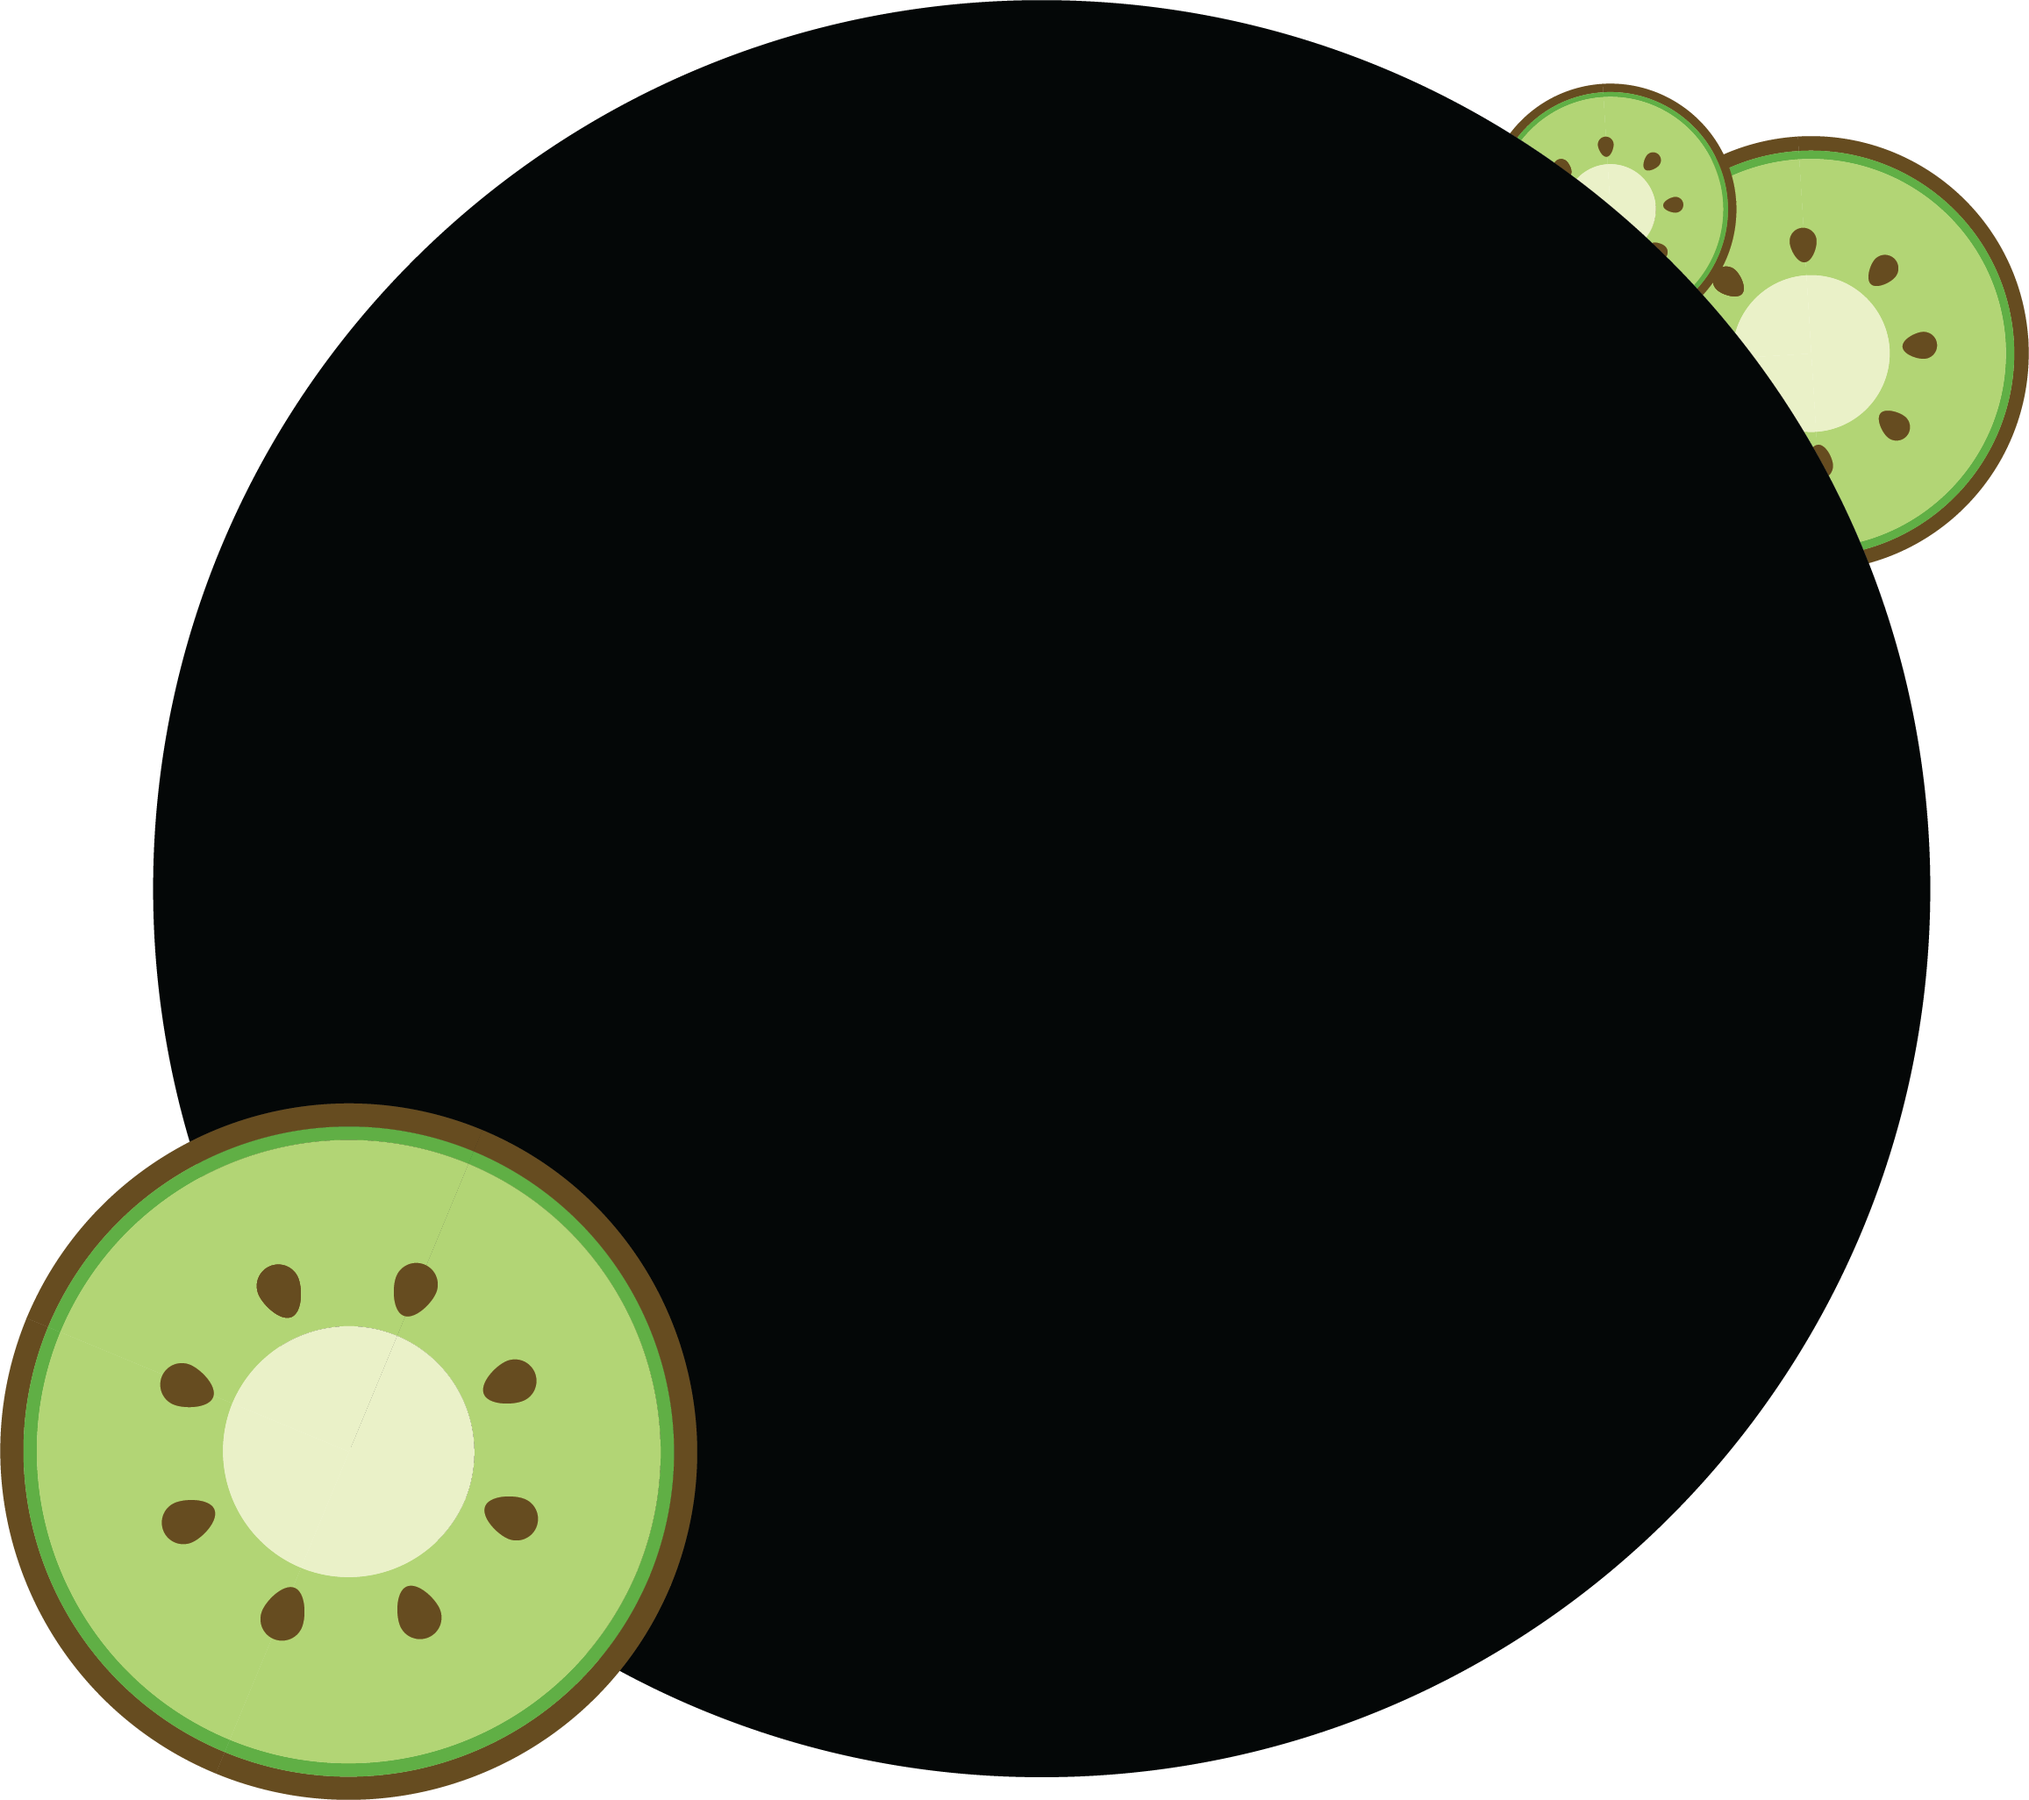
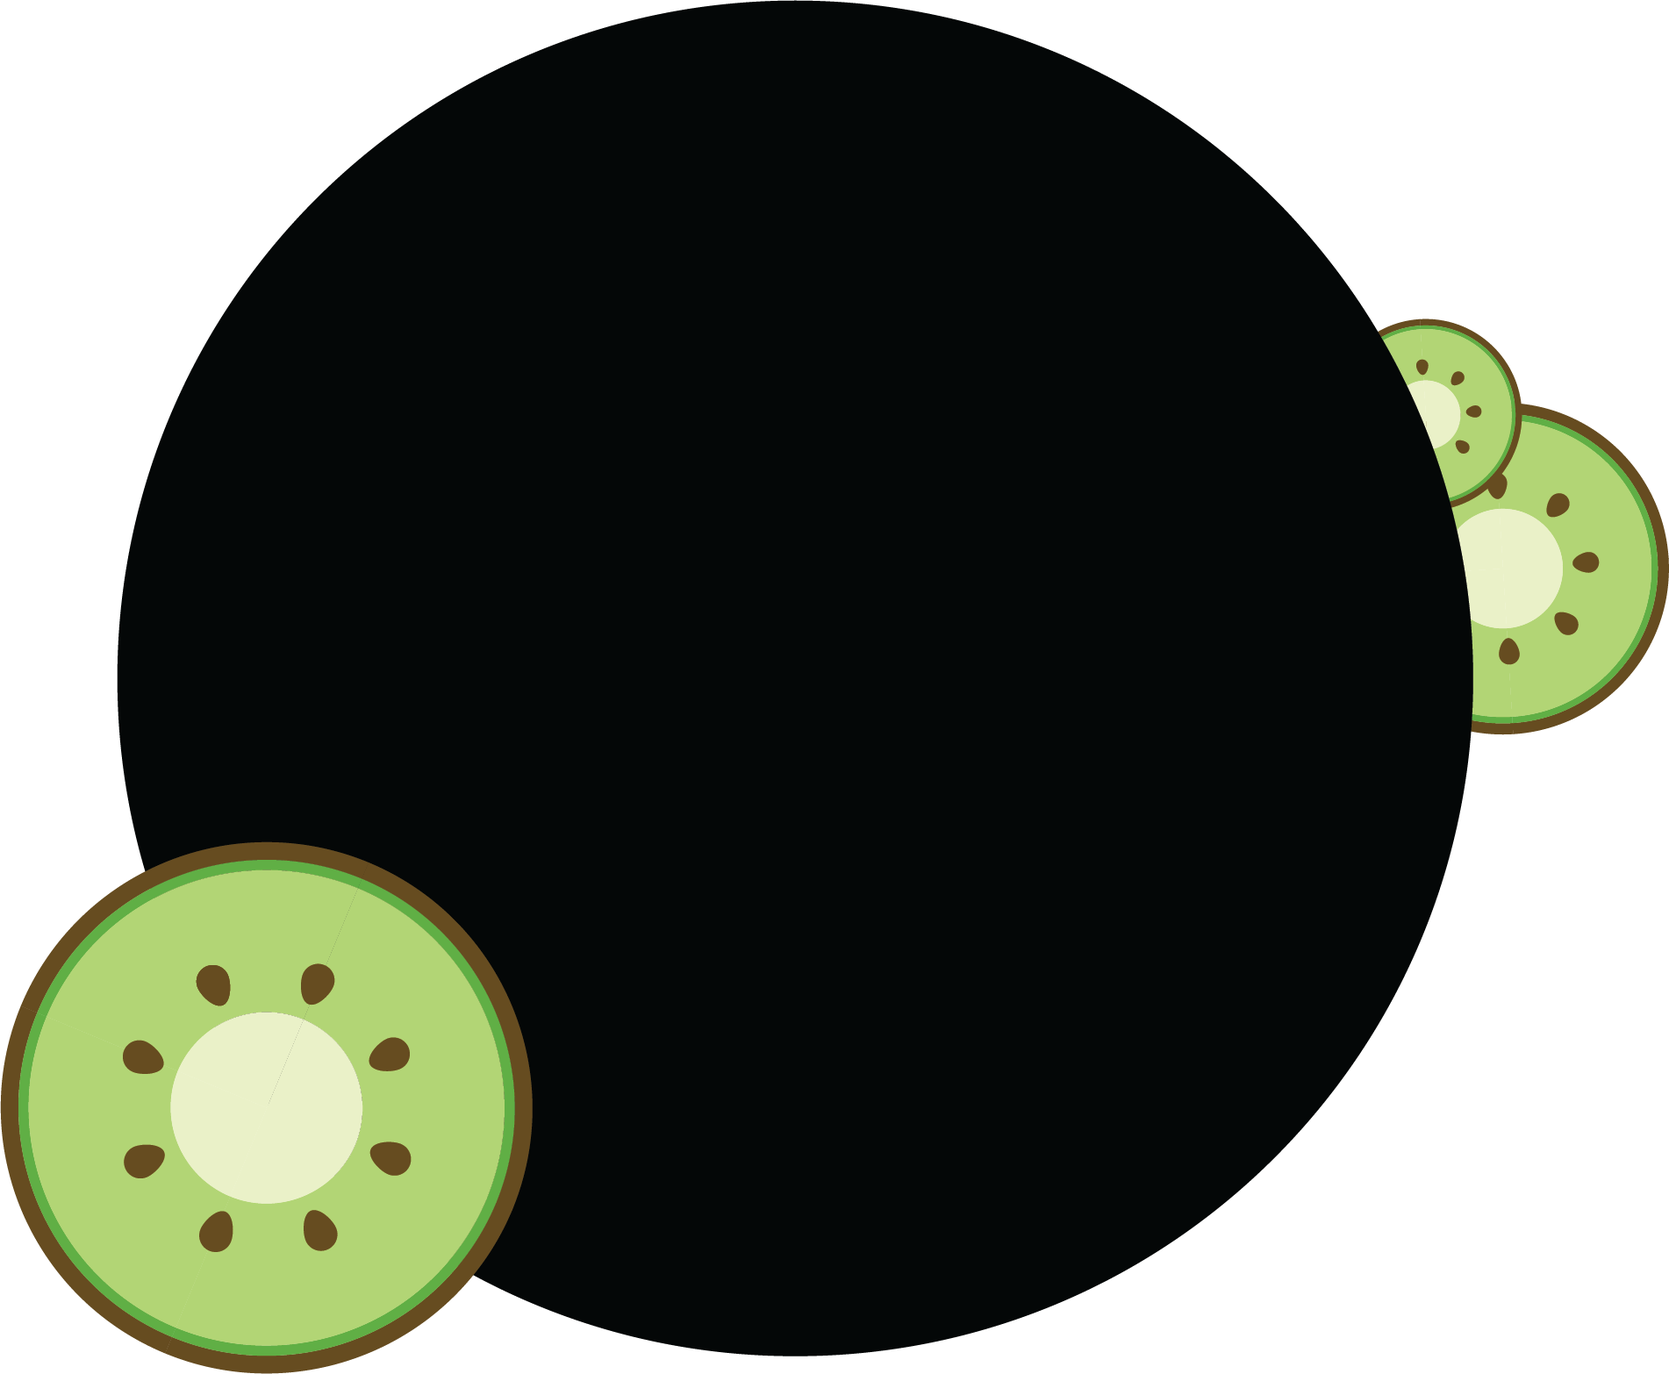
Update background image

diff --git a/sass/site/primary/about-us/_about-us.scss b/sass/site/primary/about-us/_about-us.scss
@@ -33,7 +33,6 @@
 
     .team-member-name {
         position: relative;  
-        // // width: 300px;
         top: 30px;
         left: 5px;
         // // // left: 0;
@@ -68,8 +67,8 @@
             background-image: url("asset/mask.png"); 
             background-position: 20px 1.2px;
             background-repeat: no-repeat;
-            background-size: 300px;
-            background-position: 25.5px 4.5px;
+            background-size: 322px;
+            background-position: 26.5px 4.5px;
             margin-bottom: 0 !important;
             width: auto;
             height: auto;
